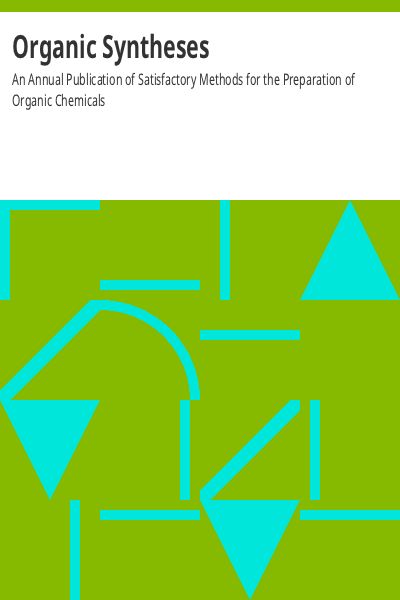
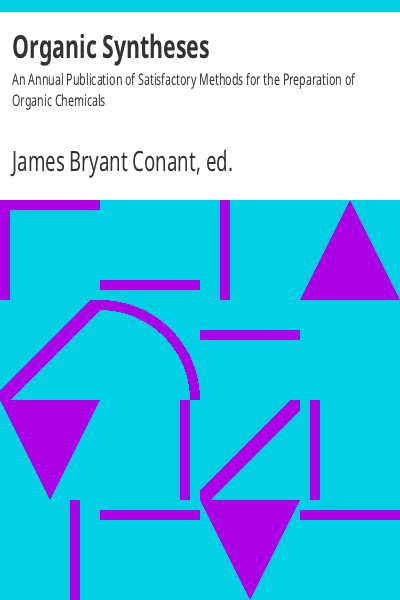
Update files

diff --git a/README.rst b/README.rst
@@ -5,7 +5,7 @@ An Annual Publication of Satisfactory Methods for the Preparation of Organic Che
 
 
 This is a git repository of the source files for the book Organic Syntheses
-An Annual Publication of Satisfactory Methods for the Preparation of Organic Chemicals by . This book is in the Public Domain, see the LICENSE file for details.
+An Annual Publication of Satisfactory Methods for the Preparation of Organic Chemicals by James Bryant Conant, ed.. This book is in the Public Domain, see the LICENSE file for details.
 
 Found an error?
 ===============
